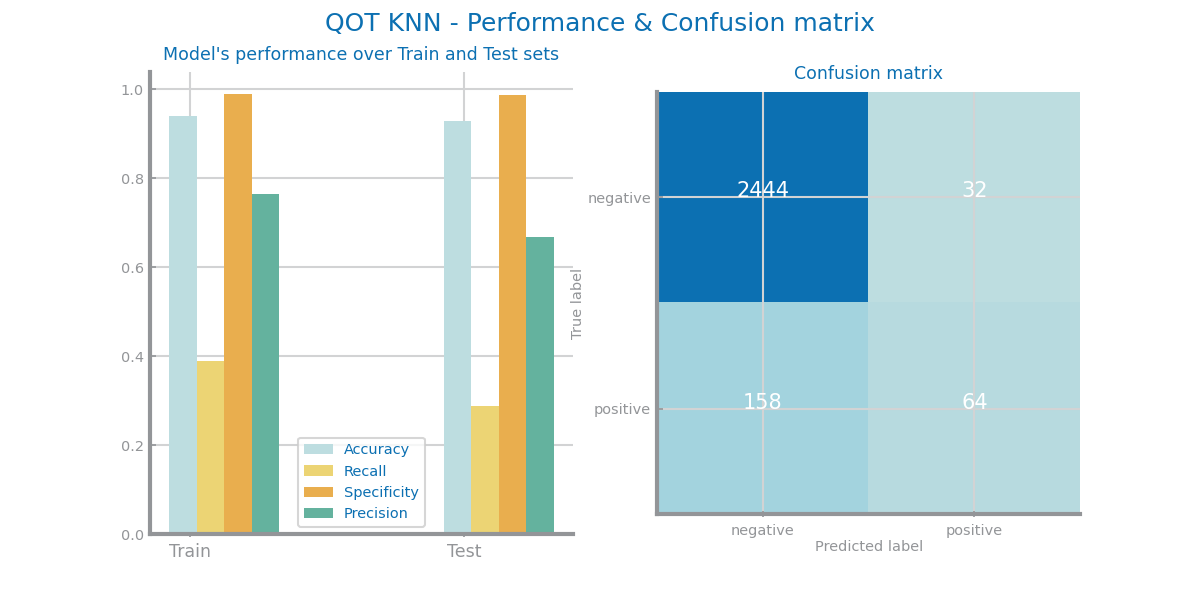
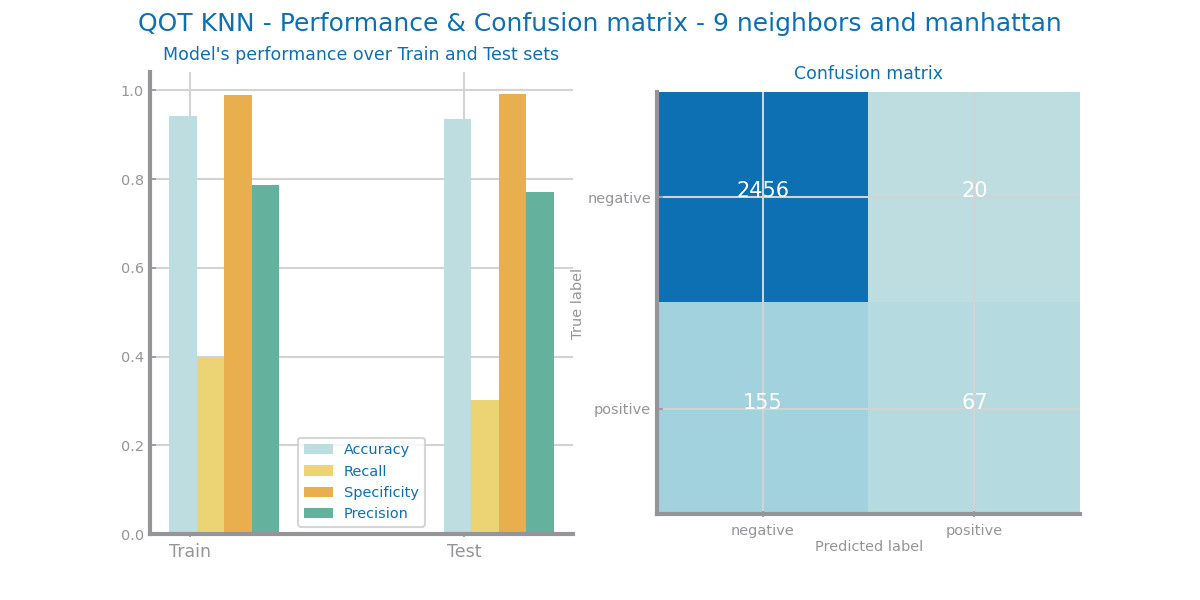
Final improvement on lab3

diff --git a/Labs/Lab03/QOT_KNN.py b/Labs/Lab03/QOT_KNN.py
@@ -15,7 +15,7 @@ labels = pd.unique(y)
 
 trnX, tstX, trnY, tstY = train_test_split(X, y, train_size=0.7, stratify=y)
 
-nvalues = [1, 3, 5, 7, 9, 11, 13, 15, 17, 19]
+nvalues = [1, 3, 5, 7, 9, 11, 13, 15, 17, 19, 21, 23, 25, 27, 29]
 dist = ['manhattan', 'euclidean', 'chebyshev']
 values = {}
 best = (0, '')
@@ -34,7 +34,6 @@ for d in dist:
 
 plt.figure()
 ds.multiple_line_chart(nvalues, values, title='KNN variants', xlabel='n', ylabel='accuracy', percentage=True)
-plt.suptitle('QOT KNN Variants')
 plt.savefig(graphsDir + 'QOT KNN Variants')
 print('Best results with %d neighbors and %s'%(best[0], best[1]))
 
@@ -43,7 +42,7 @@ clf.fit(trnX, trnY)
 prd_trn = clf.predict(trnX)
 prd_tst = clf.predict(tstX)
 ds.plot_evaluation_results(pd.unique(y), trnY, prd_trn, tstY, prd_tst)
-plt.suptitle('QOT KNN - Performance & Confusion matrix')
+plt.suptitle('QOT KNN - Performance & Confusion matrix - %d neighbors and %s'%(best[0], best[1]))
 plt.savefig(graphsDir + 'QOT KNN - Performance & Confusion matrix')
 
 

diff --git a/Labs/Lab03/HFCR_KNN.py b/Labs/Lab03/HFCR_KNN.py
@@ -34,7 +34,6 @@ for d in dist:
 
 plt.figure()
 ds.multiple_line_chart(nvalues, values, title='KNN variants', xlabel='n', ylabel='accuracy', percentage=True)
-plt.suptitle('HFCR KNN Variants')
 plt.savefig(graphsDir + 'HFCR KNN Variants')
 print('Best results with %d neighbors and %s'%(best[0], best[1]))
 
@@ -43,5 +42,5 @@ clf.fit(trnX, trnY)
 prd_trn = clf.predict(trnX)
 prd_tst = clf.predict(tstX)
 ds.plot_evaluation_results(pd.unique(y), trnY, prd_trn, tstY, prd_tst)
-plt.suptitle('HFCR KNN - Performance & Confusion matrix')
-plt.savefig(graphsDir + 'HCFR KNN - Performance & Confusion matrix')
+plt.suptitle('HFCR KNN - Performance & Confusion matrix - %d neighbors and %s'%(best[0], best[1]))
+plt.savefig(graphsDir + 'HFCR KNN - Performance & Confusion matrix')
